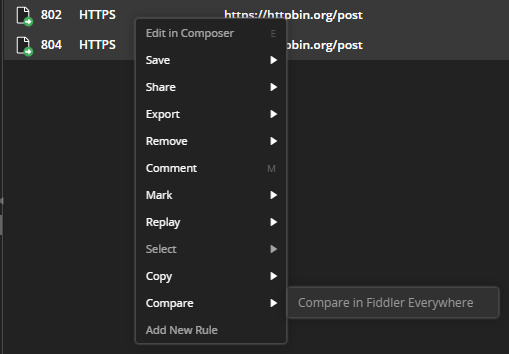
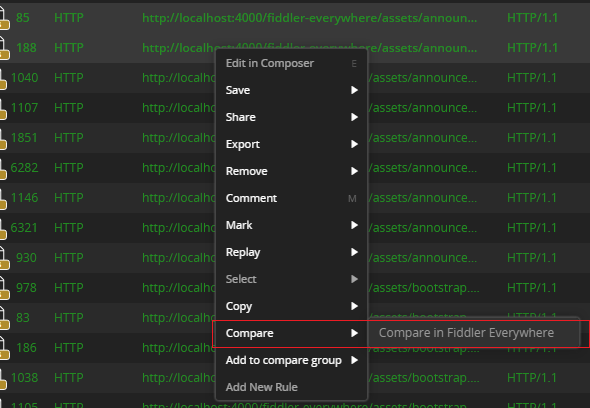
comparing options

diff --git a/user-guide/live-traffic.md b/user-guide/live-traffic.md
@@ -37,6 +37,7 @@ The **Live Traffic** toolbar provides the following functionalities:
 - [Saving](#saving) (**Save**)
 - [Sharing](#sharing) (**Share**)
 - [Searching](#searching) (**Search**)
+- [Toggling Layout](#toggling-layout)(**Toggle Layout Change**)
 
 ### Streaming
 
@@ -126,6 +127,19 @@ To share a session through the toolbar:
 ### Searching
 
 To search for specific values in the URL and the headers of all sessions, use the **Search** text input. The search action will immediately filter and show all sessions, which contain the search terms.
+
+
+### Toggling Layout
+
+The last icon on the right side of the toolbar presents an option to restructure the foremost Fiddler Everywhere layout structure for the [**Live Traffic List**](#live-traffic-list) and the [**Inspectors**]({%slug inspector-types%}). The layout change option is available for the **Live traffic** tab, comparison tabs, and saved sessions tabs. The layout options are as follows:
+
+- (Default layout) **Live Traffic List** on the left side and the **Inspectors** on the right (top for **Request Inspectors** and bottom for **Response Inspectors**).
+- (Alternative layout) **Live Traffic List** at the top and the **Inspectors** at the bottom (left for **Request Inspectors** and right for **Response Inspectors**).
+
+
+>tip You can collpase the side-panels ([**Sessions**]({%slug saved-sessions-tab%}) and [**Requests**]({%slug saved-requests-tab%})) and toggle the main layout to optimize your working space.
+
+![Fiddler Everywhere with collapsed side panels and toggled layout](../images/livetraffic/websessions/websessions-list-all-toggled.png)
 
 ## Live Traffic List
 
@@ -398,31 +412,26 @@ To create a custom sorting order, click the desired column. For example, click t
 
 Each column comes with a **more** button (three vertical dots), which opens a popup with additional **Filter** and **Columns** submenus.
 
-The **Filter** submenu enables you to apply filters to the currently selected column only&mdash;for example, filter all the traffic by the **host** name or by a specific **status code**. Columns with active filters will have a blue filter indicator. You can clear active filters through the **Filter** popup (for the filtered column) or through the global [**Clear All Filters** button](#clear-all-filters).
+The **Filter** submenu enables you to apply filters to the currently selected column only&mdash;for example, filter all the traffic by the **host** name or by a specific **status code**. Columns with active filters will have a blue filter indicator. You can clear active filters through the **Filter** popup (for the filtered column) or through the global [**Clear All Filters** button](##clearing-all-filters).
 
 ![Filter context submenu](../images/livetraffic/columns/dots-filter.png)
-
 
 Use the **Columns** submenu to select which column will be visible in the **Live Traffic** list. By default, the following columns are visible:
 
 - **URL**
-
 - **Result**
-
 - **Method**
-
 - **Process**
-
 - **Remote IP**
-
 - **Body Size**
-
 - **Comments**
 
 Refer to the [KB article "How to View Web Session Summary"]({%slug how-to-view-web-session-summary%}) for detailed information about each column type.
 
 ![Columns context submenu](../images/livetraffic/columns/dots-columns.png)
 
+
+To create more complex filtering rules, use the [**Advanced Filters**](#advanced-filters)
 
 ## Context Menu Options
 
@@ -575,7 +584,7 @@ The following example demonstrates how to the full information.
 
 ### Comparing
 
-Select two sessions and use the **Compare** context menu option to load the **Compare Sessions** tab. This feature allows you to compare precisely two sessions, and the option will be inactive if more than two sessions are selected.
+Select two sessions or group more sessions and use the **Compare** context menu option to load the **Compare Sessions** tab.
 
 [Learn more on how to compare sessions with Fiddler Everywhere here...]({%slug fe-compare-sessions%})
 

diff --git a/traffic/compare-traffic.md b/traffic/compare-traffic.md
@@ -10,15 +10,18 @@ position: 35
 
 >tip The **Compare Sessions (BETA)** feature is under active development and subject to additional changes and improvements in future releases.
 
+
+## Comparing Sessions
+
 Fiddler Everywhere provides a comparing option for detailed differentiation of two captured sessions.
 
-To compare traffic through the **Live Traffic** list:
+To compare sessions from the **Live Traffic** list:
 
 1. Set **Live Traffic** to **Capturing** and make the requests. As a result, the sessions are captured and displayed in the **Live Traffic** list.
 
 1. Select two sessions that you want to compare.
 
-1. Select the **Compare** option from the context menu and choose the **Compare in Fiddler Everywhere** nested option.
+1. Select the **Compare** option from the context menu and choose the **Compare in Fiddler Everywhere** nested option. Note that the **Compare** option is active only when **two** sessions are selected.
     
     ![Compare through the context menu](../images//livetraffic/compare/compare-context-menu.png)
 
@@ -27,7 +30,20 @@ To compare traffic through the **Live Traffic** list:
     ![Compare Sessions tab](../images/livetraffic/compare/compare-tab-001.png)
 
 
-Fiddler Everywhere loads both sessions side-by-side with the session with a lower ID to the left (primary session) and the session with the higher ID to the right (secondary session). The differences are highlighted in the session inspectors by a red background highlight for the removed content from the primary session and a green background highlight for newly added content in the secondary session.
+Fiddler Everywhere loads both sessions side-by-side with the session with a lower ID to the left (named **Group 1**) and the session with the higher ID to the right (named **Group 2**). The differences are highlighted in the session inspectors by a red background highlight for the removed content from the primary session and a green background highlight for newly added content in the secondary session. Additional sessions can be added to both groups allowing simultaneously to compare multiple sessions.
+
+
+## Adding Sessions to the Compare Groups
+
+You can add more sessions to the compare groups through the context menu.
+
+1. Set **Live Traffic** to **Capturing** and make the requests. As a result, the sessions are captured and displayed in the **Live Traffic** list.
+
+1. Select one or more sessions that you want to compare.
+
+1. Select the **Add to compare group** option from the context menu and select the compare group where the session should be added.
+
+    ![Add to compare group](../images/livetraffic/compare/compare-context-menu-add-to-group.png)
 
 ## Additional Resources
 

diff --git a/introduction.md b/introduction.md
@@ -68,9 +68,9 @@ Fiddler Everywhere enables you to also capture and inspect traffic on devices ru
 * [Capturing and Inspecting Traffic on iOS]({% slug capture-mobile-ios-traffic %})
 * [Capturing and Inspecting Traffic on Android]({% slug capture-mobile-android-traffic %})
 
-### Styling Options  
+### Styling Options and MOdern Layout
 
-Fiddler Everywhere delivers a modern, intuitive UI and a set of popular themes. [Read more about modifying the appearance of the Fiddler web-debugging tool...]({% slug themes-settings-submenu %})
+Fiddler Everywhere delivers a modern, intuitive UI with collpasible panels, [layout reorganization options]({%slug web-sessions-list%}#toggling-layout) and a set of popular light and dark themes. [Read more about modifying the appearance of the Fiddler web-debugging tool...]({% slug themes-settings-submenu %})
 
 ## Trial Version 
 
